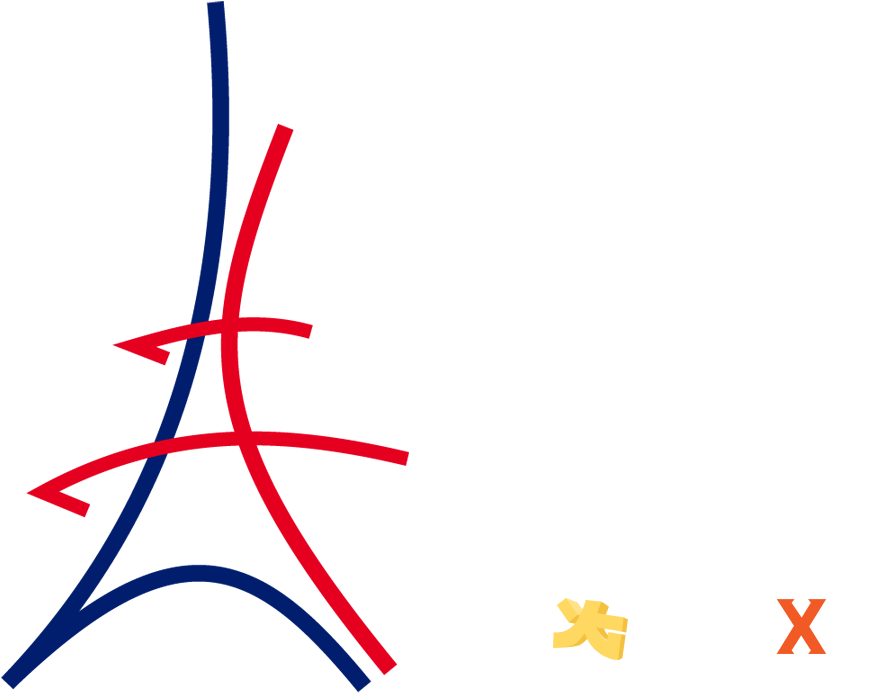
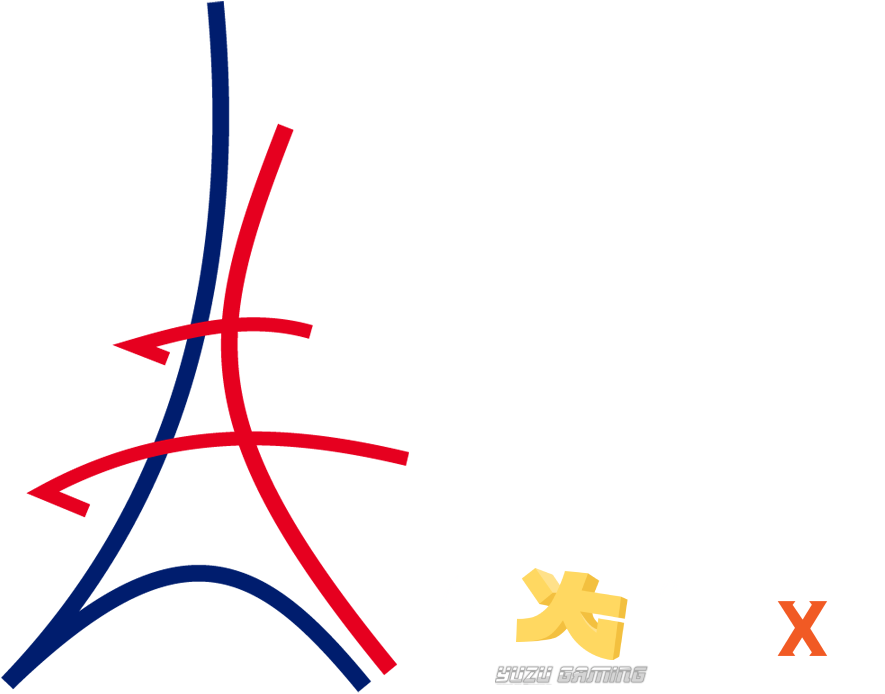
Ajout d'un bouton NSxC dans les réseaux sociaux et modifications du bouton Yuzu Gaming

Changed region(s): [[0.5492, 0.817, 0.7322, 0.9986], [0.8847, 0.8473, 0.9458, 0.938]]

diff --git a/src/components/socialMedias/style.css b/src/components/socialMedias/style.css
@@ -52,9 +52,17 @@
   }
   .socials-aside_ready a.yuzu-social, .socials-aside_ready button.yuzu-social {
     background-color: #202020;
+    border: 2px solid #ffd342;
+    box-sizing: border-box;
   }
   .socials-aside_ready a.yuzu-social:hover, .socials-aside_ready button.yuzu-social:hover {
     background-color: #3a3a3a;
+  }
+  .socials-aside_ready a.nsxc-social, .socials-aside_ready button.nsxc-social {
+    background-color: #ff7f26;
+  }
+  .socials-aside_ready a.nsxc-social:hover, .socials-aside_ready button.nsxc-social:hover {
+    background-color: #ff9d59;
   }
   .socials-aside_ready a.pfl-trailer, .socials-aside_ready button.pfl-trailer {
     background-image: url("../../assets/pfl-bg.jpg");

diff --git a/src/components/socialMedias/SocialMedias.tsx b/src/components/socialMedias/SocialMedias.tsx
@@ -11,6 +11,7 @@ export default function SocialMedias({func}) {
         <a href={import.meta.env.VITE_TWITCH} target="_blank" title="Twitch's FlashNo47" aria-label="Twitch" className='icon-twitch'></a>
         <a href={import.meta.env.VITE_TWITTER} target="_blank" title="Twitter Yuzu" aria-label="Twitter" className='icon-twitter'></a>
         <a href={import.meta.env.VITE_WEBSITE} target="_blank" title="Yuzu Gaming website" aria-label="Twitter" className="yuzu-social icon-yuzu"></a>
+        <a href={import.meta.env.VITE_NSXC} target="_blank" title="NSxC Twitter" aria-label="NSxC" className="nsxc-social icon-nsxc"></a>
     </aside>
   )
 }

diff --git a/src/components/socialMedias/style.scss b/src/components/socialMedias/style.scss
@@ -55,7 +55,14 @@
 
             &.yuzu-social {
                 background-color: #202020;
+                border: 2px solid #ffd342;
+                box-sizing: border-box;
                 &:hover {background-color: lighten(#202020, 10%)}
+            }
+
+            &.nsxc-social {
+                background-color: #ff7f26;
+                &:hover {background-color: lighten(#ff7f26, 10%)}
             }
 
             &.pfl-trailer {

diff --git a/src/App.css b/src/App.css
@@ -96,7 +96,11 @@
 }
 
 .icon-yuzu:before {
-  content: url('assets/yuzu-lo.svg');
+  content: url('assets/yuzu-social.svg');
+}
+
+.icon-nsxc:before {
+  content: url('assets/nsxc-logo.svg');
 }
 
 .transition-fade {
